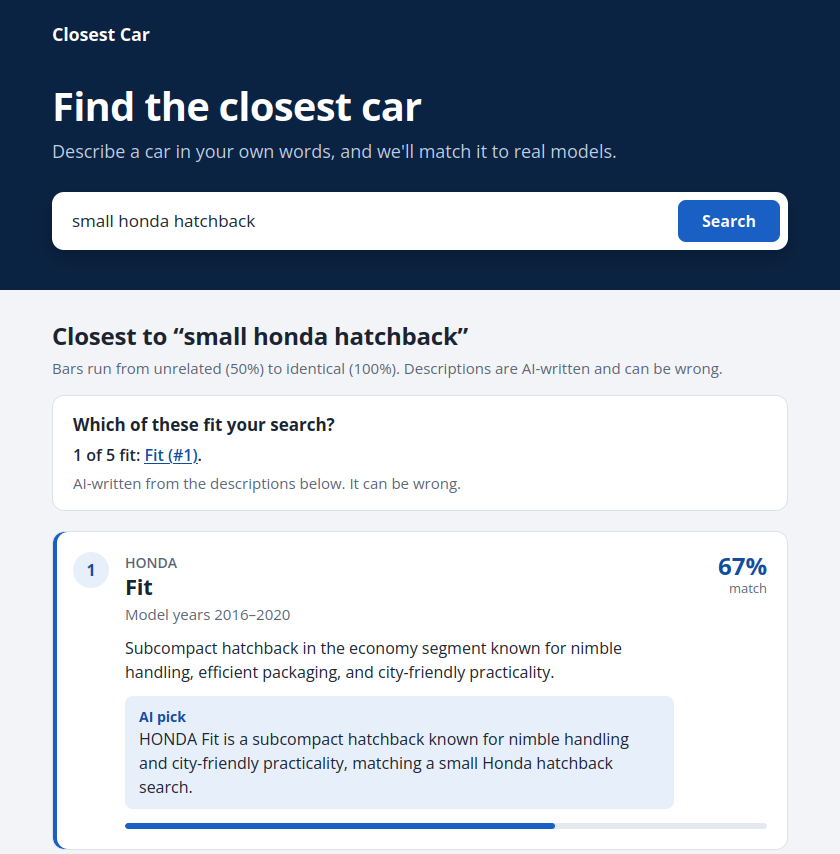
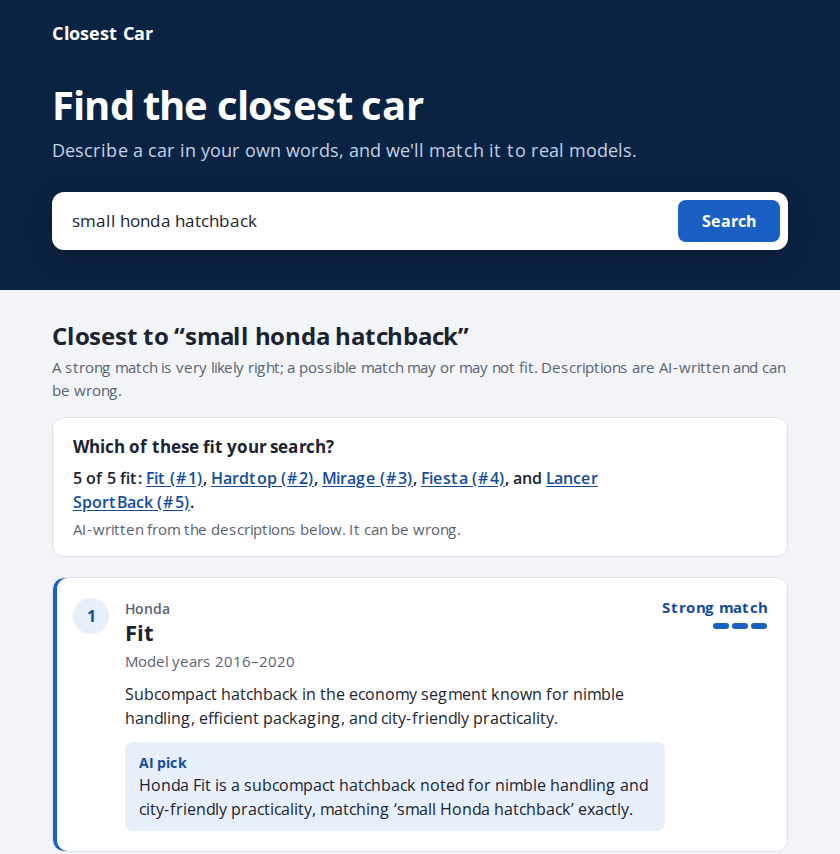
Change to less confusing results, chose a simpler to understand UI rather than re-weighing

diff --git a/app/pages/index.vue b/app/pages/index.vue
@@ -54,11 +54,10 @@ function tryExample(text: string) {
     search();
 }
 
-// Mongo's score runs 0..1, but 0.5 already means "unrelated", so the page shows
-// 0.5..1 as 0..100%. One helper feeds both the number and the bar, so they can't drift apart.
-function matchPercent(score: number) {
-    return Math.round(Math.min(Math.max((score - 0.5) / 0.5, 0), 1) * 100);
-}
+// The match is shown as a word, not a percentage: a mid score can't tell a
+// right answer from a wrong one (docs/evaluation.md, "The match display").
+// Steps fill the small meter beside it: 3 strong, 2 possible, 1 weak.
+const MATCH_STEPS: Record<MatchStrength, number> = { strong: 3, possible: 2, weak: 1 };
 </script>
 
 <template>
@@ -193,7 +192,7 @@ function matchPercent(score: number) {
                     <template v-if="years">
                         Showing models sold in {{ formatYears(years) }}.
                     </template>
-                    Match runs from 0% (unrelated) to 100% (identical).
+                    A strong match is very likely right; a possible match may or may not fit.
                     <template v-if="hasDescriptions">
                         Descriptions are AI-written and can be wrong.
                     </template>
@@ -236,19 +235,23 @@ function matchPercent(score: number) {
                                         Model years <span class="nowrap">{{ formatYears(car.years) }}</span>
                                     </p>
                                 </div>
-                                <!-- One score: the number, and its meter right under it. -->
-                                <div class="score">
-                                    <p>
-                                        <span class="score-number">{{ matchPercent(car.score) }}%</span>
-                                        <span class="score-label">match</span>
+                                <!-- The match in words; the steps repeat it visually, so they're hidden from screen readers. -->
+                                <div
+                                    class="score"
+                                    :data-strength="matchStrength(car.score)"
+                                >
+                                    <p class="strength">
+                                        {{ MATCH_LABEL[matchStrength(car.score)] }}
                                     </p>
                                     <div
-                                        class="meter"
+                                        class="steps"
                                         aria-hidden="true"
                                     >
-                                        <div
-                                            class="meter-fill"
-                                            :style="{ width: `${matchPercent(car.score)}%` }"
+                                        <span
+                                            v-for="n in 3"
+                                            :key="n"
+                                            class="step"
+                                            :class="{ on: n <= MATCH_STEPS[matchStrength(car.score)] }"
                                         />
                                     </div>
                                 </div>
@@ -503,29 +506,49 @@ h2 {
 }
 .score {
   flex-shrink: 0;
-  width: 6.5rem;
+  min-width: 6.5rem;
   text-align: right;
   line-height: 1.1;
+  white-space: nowrap;
 }
+/* On phones the word wraps ("Possible" / "match") to leave room for the name. */
 @media (max-width: 34rem) {
   .score {
+    min-width: 0;
     width: 4.5rem;
+    white-space: normal;
   }
 }
 /* A year range never splits across lines ("2016–" / "2026"). */
 .nowrap {
   white-space: nowrap;
 }
-.score-number {
-  display: block;
-  font-size: 1.5rem;
-  font-weight: 800;
-  color: var(--score);
-  font-variant-numeric: tabular-nums;
+/* The word carries the meaning; color only reinforces it. */
+.strength {
+  font-weight: 700;
+  font-size: 0.9375rem;
+  line-height: 1.25;
 }
-.score-label {
+.score[data-strength="strong"] .strength {
+  color: var(--score);
+}
+.score[data-strength="weak"] .strength {
   color: var(--muted);
-  font-size: 0.8125rem;
+}
+.steps {
+  margin-top: 0.4rem;
+  display: flex;
+  justify-content: flex-end;
+  gap: 0.2rem;
+}
+.step {
+  width: 1rem;
+  height: 0.375rem;
+  border-radius: 999px;
+  background: var(--track);
+}
+.step.on {
+  background: var(--bar);
 }
 .years {
   margin-top: 0.25rem;
@@ -555,32 +578,6 @@ h2 {
   font-weight: 700;
   font-size: 0.875rem;
 }
-/* The score's meter, under its number: same 0-100% as the number. */
-.meter {
-  margin-top: 0.5rem;
-  height: 0.375rem;
-  border-radius: 999px;
-  background: var(--track);
-  overflow: hidden;
-}
-.meter-fill {
-  height: 100%;
-  border-radius: inherit;
-  background: var(--bar);
-  transform-origin: left;
-  animation: grow 500ms cubic-bezier(0.2, 0.7, 0.2, 1) both;
-}
-@keyframes grow {
-  from {
-    transform: scaleX(0);
-  }
-}
-@media (prefers-reduced-motion: reduce) {
-  .meter-fill {
-    animation: none;
-  }
-}
-
 .source {
   margin-top: auto;
   padding-top: 2rem;

diff --git a/shared/utils/match-strength.ts b/shared/utils/match-strength.ts
@@ -1,0 +1,25 @@
+// How strong a search result's match is, in words, from Mongo's score
+// ((1 + cos) / 2, where 0.5 is unrelated). The page shows these instead of a
+// percentage: a mid score can't tell a right answer from a wrong one, so a
+// precise-looking number misleads. Cut-offs set from the golden set's scores,
+// before the change: docs/evaluation.md, "The match display".
+
+// At or above: 93% of results were right, and no junk or out-of-catalog result.
+export const MATCH_STRONG = 0.78;
+// At or above: a coin toss weighted toward right (63%). Must equal the answer
+// gate's GATE_THRESHOLD (server/utils/answer.ts); a unit test checks it.
+export const MATCH_POSSIBLE = 0.65;
+
+export type MatchStrength = "strong" | "possible" | "weak";
+
+export function matchStrength(score: number): MatchStrength {
+    if (score >= MATCH_STRONG) return "strong";
+    if (score >= MATCH_POSSIBLE) return "possible";
+    return "weak";
+}
+
+export const MATCH_LABEL: Record<MatchStrength, string> = {
+    strong: "Strong match",
+    possible: "Possible match",
+    weak: "Weak match",
+};

diff --git a/tests/unit/match-strength.test.ts b/tests/unit/match-strength.test.ts
@@ -1,0 +1,24 @@
+// The match words the page shows (docs/evaluation.md, "The match display").
+import { describe, expect, it } from "vitest";
+import { GATE_THRESHOLD } from "../../server/utils/answer.ts";
+import { MATCH_POSSIBLE, MATCH_STRONG, matchStrength } from "../../shared/utils/match-strength.ts";
+
+describe("matchStrength", () => {
+    it.each([
+        [0.98, "strong"],
+        [MATCH_STRONG, "strong"],
+        [0.779, "possible"],
+        [0.758, "possible"], // the Prius C for "gas efficient car"
+        [MATCH_POSSIBLE, "possible"],
+        [0.649, "weak"],
+        [0.6, "weak"], // "asdf qwerty"
+    ] as const)("%s is %s", (score, strength) => {
+        expect(matchStrength(score)).toBe(strength);
+    });
+
+    // "Possible" starts where the page says "Nothing close" and the AI answer's gate
+    // stops: if one moved without the other, a result could be "possible" yet gated.
+    it("starts 'possible' at the answer gate", () => {
+        expect(MATCH_POSSIBLE).toBe(GATE_THRESHOLD);
+    });
+});

diff --git a/docs/rag.md b/docs/rag.md
@@ -70,8 +70,10 @@ Search always returns the nearest cars, even for nonsense. So when no result sco
 
 | Gibberish: flagged | A near miss: not flagged |
 |---|---|
-| ![Search for "wakka wakka huba dooba": a "Nothing close to that in the catalog" notice above results at 20% and 18% match](images/nothing-close-flagged.png) | ![Search for "donkey shaped car": no notice, results at 40% and 38% match](images/nothing-close-near-miss.png) |
-| Top result 20% (score 0.60), under the line | Top result 40% (score 0.70), just over it, though nothing really fits |
+| ![Search for "wakka wakka huba dooba": a "Nothing close to that in the catalog" notice above results marked "Weak match"](images/nothing-close-flagged.png) | ![Search for "donkey shaped car": no notice, results marked "Possible match"](images/nothing-close-near-miss.png) |
+| Top score 0.60, under the line: "Weak match" | Top score 0.70, just over it: "Possible match", though nothing really fits |
+
+Each result is marked **Strong match** (0.78 and up), **Possible match** (0.65 to 0.78) or **Weak match** (under 0.65), not a percentage. A mid score can't tell a right answer from a wrong one: out-of-catalog searches like "pickup truck" score in the same range as correct results. So the page says "possible" rather than a precise-looking number, and "Explain these results" can say which possible matches fit. The data and the decision: [evaluation.md](evaluation.md#the-match-display-why-words-not-percentages-2026-11-19).
 
 The right-hand case is why a score threshold alone can't say "we don't carry that": real near misses ("pickup truck" scores 0.75) land above it too. Those are left to the AI answer, which can say none of the cars fit ([G spec, decision 1](specs/generate.md#decisions-clarks-calls)).
 
@@ -79,9 +81,9 @@ The right-hand case is why a score threshold alone can't say "we don't carry tha
 
 Under the results heading, **Explain these results** asks the AI which of the cars fit the search. It reads only the descriptions shown and may pick only those cars. It marks each pick on its result card with the reason, and the summary links to them. When none fit, it says so with fixed page text instead of making something up.
 
-![Search for "small honda hatchback": the summary says "1 of 5 fit: Fit (#1)", labeled as AI-written, and the HONDA Fit card has a blue edge and an "AI pick" note saying it's a subcompact hatchback matching the search](images/ai-answer-small-honda-hatchback.png)
+![Search for "small honda hatchback": the summary says "5 of 5 fit: Fit (#1), Hardtop (#2), Mirage (#3), Fiesta (#4), and Lancer SportBack (#5)", labeled as AI-written, and the Honda Fit card, marked "Strong match", has a blue edge and an "AI pick" note saying it's a subcompact hatchback matching the search](images/ai-answer-small-honda-hatchback.png)
 
-A real answer from gpt-5-mini: of the five closest cars, it picked only the Honda Fit, and its reason comes straight from the Fit's description. The other cards are left as they are, since not picking a car isn't a verdict on it. Each answer costs one of the free tier's 50 chat calls a day, so answers only run on request and repeats come from a cache ([G spec](specs/generate.md)).
+A real answer from gpt-5-mini, and an imperfect one, kept on purpose. It picked all five: the Honda Fit, but also a MINI, a Mitsubishi and a Ford, which aren't Hondas. Under the earlier prompt, the same search picked only the Fit. The likely cause is that the descriptions leave out the make, and the current prompt says to judge each car only by its description ([evaluation.md](evaluation.md#answer-check-second-run-2026-11-18)). Cars it doesn't pick are left as they are, since not picking a car isn't a verdict on it. Each answer costs one of the free tier's 50 chat calls a day, so answers only run on request and repeats come from a cache ([G spec](specs/generate.md)).
 
 ## Cost
 
@@ -230,7 +232,7 @@ $$
 
 The Civic scores 0.98 and the BMW 0.68. A score of 0.5 means unrelated. Real scores bunch up, so rank matters more than the absolute number, and you shouldn't hard-code a threshold without looking at real scores first.
 
-The page doesn't show this score directly. Since 0.5 already means unrelated, its "% match" and bar both show $(\text{score} - 0.5) / 0.5$: the Civic at 0.98 shows 96%, and "asdf qwerty" at 0.60 shows 20%, not 60%. Thresholds in code and docs (like the G step's 0.65) stay on Mongo's scale.
+The page doesn't show this score directly. Until 2026-11-19 it showed a rescaled percentage, $(\text{score} - 0.5) / 0.5$, since 0.5 already means unrelated. That was correct but misleading: real searches land at 0.75–0.85, so a right answer showed as about 52%, and a mid score turned out to be ambiguous anyway (right and wrong answers both land there). The page now shows a word instead: **Strong match** from 0.78, **Possible match** from 0.65, **Weak match** below ([evaluation.md](evaluation.md#the-match-display-why-words-not-percentages-2026-11-19)). The cut-offs live in `shared/utils/match-strength.ts`. Thresholds in code and docs (like the G step's 0.65) stay on Mongo's scale.
 
 ### 6. Exact vs approximate search
 

diff --git a/docs/evaluation.md b/docs/evaluation.md
@@ -344,6 +344,42 @@ The 21 older searches score exactly as before, so concept goes from 0.98 to 0.95
 
 **What it says:** the ranking problem is real but narrow. One phrasing ("gas efficient") lets in an electric car and misses the regular Prius; another ("good on gas") is perfect, and the top result is right in all three. So most of what Clark noticed by hand is the **display**: the right car, the Prius C, shown as 52%. Caveat: these labels are wide (26–39 cars graded 2), which makes nDCG@5 forgiving. That's accurate to what a shopper would accept, but small regressions would hardly move it.
 
+## The match display: why words, not percentages (2026-11-19)
+
+### The problem
+
+The page showed each result's score as a percentage, rescaled so that 0.5 (unrelated) is 0% and 1.0 is 100% ([rag.md §5](rag.md#5-what-mongos-score-means)). The math was right, but it read wrong. Real searches top out around 0.75–0.85, which showed as 50–70%: Clark's correct top result for "gas efficient car" (the Prius C, 0.758) showed as **52%**, which reads like a coin flip.
+
+### What the scores can and can't say
+
+Every top-5 result of the 27 golden searches, with its reviewed grade (135 results, embeddings only):
+
+| Score | Results | Right (graded 1 or 2) | Out-of-catalog and junk searches |
+|---|---|---|---|
+| 0.78 and up | 45 | **93%** (42); 3 wrong, the highest at 0.793 | none |
+| 0.65–0.78 | 75 | **63%** (47) | all 10 results of "pickup truck" and "family suv" (0.69–0.75) |
+| under 0.65 | 0 | | all 5 of "asdf qwerty" (0.59–0.60) |
+
+**The real problem isn't the scaling; it's that a mid score is ambiguous.** The correct Prius C (0.758) sits in the same band as "pickup truck"'s top result (0.752), a car the catalog doesn't have. No rescaling can separate them, because the information isn't in the score. A percentage pretends to a precision the score doesn't have. Three findings follow:
+
+1. **Above about 0.78, a result is very likely right.** That's worth saying plainly.
+2. **Between the gate (0.65) and 0.78, it's a coin toss weighted toward right.** The honest message is "maybe", and that's where the AI answer earns its keep: "Explain these results" reads the descriptions and says which ones fit.
+3. **Below 0.65, it's junk.** The "Nothing close" notice already says so.
+
+### The decision (Clark, 2026-11-19): words
+
+Each result shows a word instead of a percentage, from cut-offs set from the table above, before the change:
+
+| Word | Score | Why that cut-off |
+|---|---|---|
+| **Strong match** | 0.78 and up | 93% right, and no out-of-catalog or junk result ever reached it |
+| **Possible match** | 0.65 to 0.78 | 63% right, and where out-of-catalog searches land. Starts at the gate, the same 0.65 used for "Nothing close" and the AI answer |
+| **Weak match** | under 0.65 | Only junk scored here |
+
+**Considered and rejected:** rescaling to the real range (0.65 to 0.85 as 0–100%) keeps a number but still invites "only 54%?", and its end points are as arbitrary as the old ones. Bars relative to the top result show ranking, but say nothing about whether even the best car fits. Explaining the percentage leaves the misleading number in place.
+
+**Limits:** the cut-offs come from 24 labeled searches and one embedding model. A new model, new descriptions or many more searches means re-running this table, and the cut-offs live in one file so that's a one-line change. The API still returns the raw score; only the page shows words.
+
 ---
 
 ## Appendix: the math

diff --git a/docs/tech-debt.md b/docs/tech-debt.md
@@ -28,7 +28,7 @@ Each item gets Impact (how much it slows work), Risk (what happens if it's left)
 | 5 | Before-public hardening | Security | | | | parked, fixes in the spec |
 | 12 | Answer cache in Redis instead of Mongo | Architecture | 1 | 1 | 3 | 6, stretch |
 | 13 | Searches that name a car outside the results get no answer | Code, UX | 2 | 1 | 2 | 12, stretch |
-| 14 | Search quality on everyday wording ("gas efficient car"), and match percentages that read low | Search, UX | 3 | 2 | 3 | 15 |
+| 14 | Search quality on everyday wording ("gas efficient car"); the display half is done (words, not percentages) | Search | 2 | 1 | 3 | 9 |
 | 10 | Niche makers crowd out real answers: remove them from the dataset | Data | 4 | 3 | 2 | done (83 makers) |
 | 4 | No Dependabot | Dependency | | | | done |
 | 3 | No relevance check with real embeddings | Test | 4 | 3 | 2 | done |
@@ -47,7 +47,9 @@ Each item gets Impact (how much it slows work), Risk (what happens if it's left)
 
 Measure first: no fix until the golden set has searches like this and a before score.
 
-**Measured 2026-11-19** ([before](evaluation.md#measured-the-before-2026-11-19)): "gas efficient car" 0.73, "good on gas" 1.00, "cheap to run" 0.91, and Hit@1 is 1.00 on all three. The ranking issue is one phrasing, not everyday wording in general. **The bigger visible problem is the display:** the right top car shows as 52%. Next is Clark's UX call on the display; the ranking fix (shopper words in descriptions, or hybrid keyword-plus-vector search) can wait for a second failing search.
+**Measured 2026-11-19** ([before](evaluation.md#measured-the-before-2026-11-19)): "gas efficient car" 0.73, "good on gas" 1.00, "cheap to run" 0.91, and Hit@1 is 1.00 on all three. The ranking issue is one phrasing, not everyday wording in general. **The bigger visible problem is the display:** the right top car shows as 52%. The ranking fix (shopper words in descriptions, or hybrid keyword-plus-vector search) can wait for a second failing search.
+
+**Display: done 2026-11-19 (Clark chose words).** Results show "Strong match", "Possible match" or "Weak match", with cut-offs set from every top-5 score of the golden set ([evaluation](evaluation.md#the-match-display-why-words-not-percentages-2026-11-19)). That measurement also found the deeper problem: a mid score can't tell a right answer from a wrong one, whatever the scale. So #14 stays open for the ranking half only.
 
 ### 13. Searches that name a car outside the results
 

diff --git a/docs/api.md b/docs/api.md
@@ -73,7 +73,7 @@ A real response, from the example request above:
 | `results[].years` | Every model year the car was sold, sorted |
 | `results[].description` | Present only once `pnpm describe` has run for that car. **AI-written, not verified fact**: show it labeled as such |
 | `results[].embeddingText` | The exact text that was turned into the car's vector, useful for debugging matches |
-| `results[].score` | 0 to 1. **0.5 means unrelated**, so read it as a ranking rather than a percentage (see [the math](rag.md#5-what-mongos-score-means)) |
+| `results[].score` | 0 to 1. **0.5 means unrelated**, so read it as a ranking rather than a percentage (see [the math](rag.md#5-what-mongos-score-means)). The page shows it as a word: 0.78 and up is a strong match, 0.65 and up a possible one (`matchStrength` in `shared/utils/match-strength.ts`) |
 | `years` | The year filter that was applied, `[from, to]`, or `null` if the query had no year |
 | `nothingClose` | `true` when no result scores at least **0.65**, including when there are no results. The results are still the nearest cars, but none is a real match ("pickup truck", "asdf"). Same threshold as the AI answer's gate ([G spec, decision 1](specs/generate.md#decisions-clarks-calls)), so the page can say "nothing close" without spending an AI call |
 
